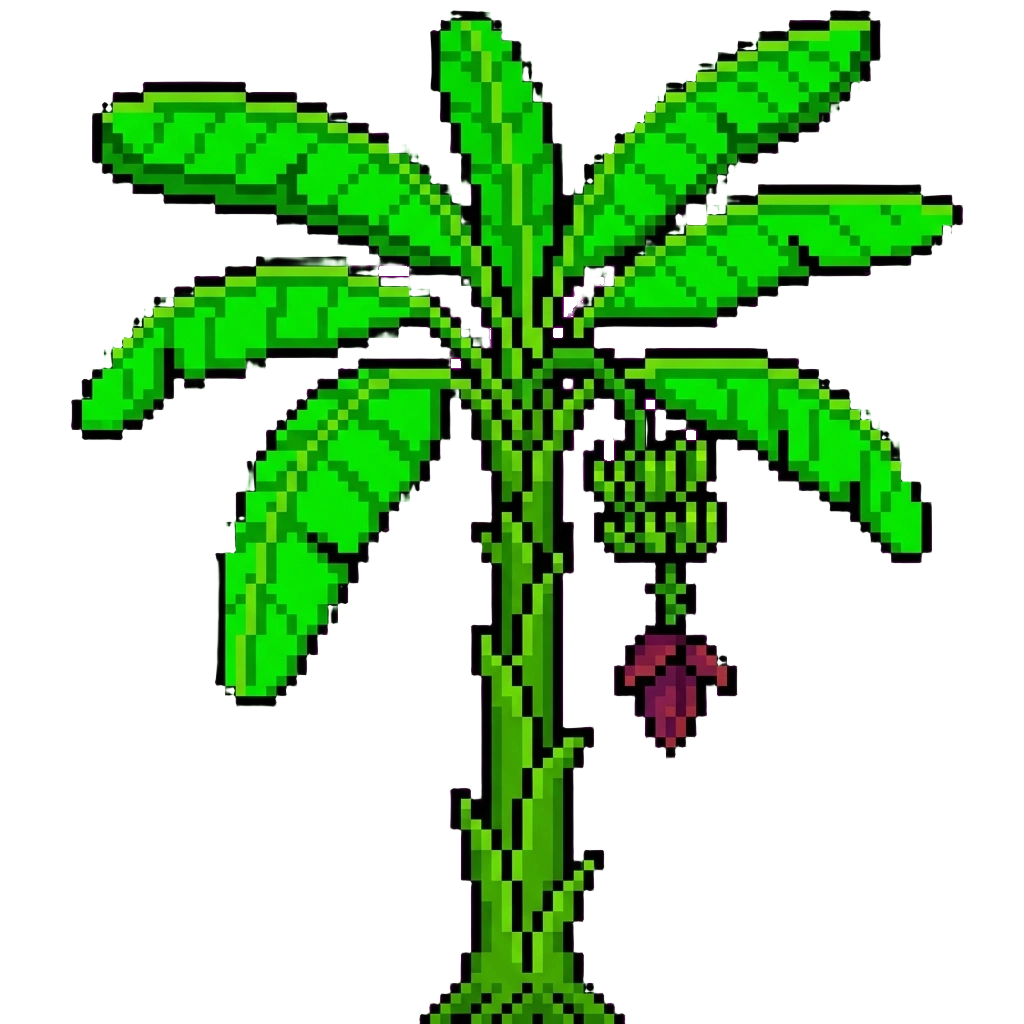
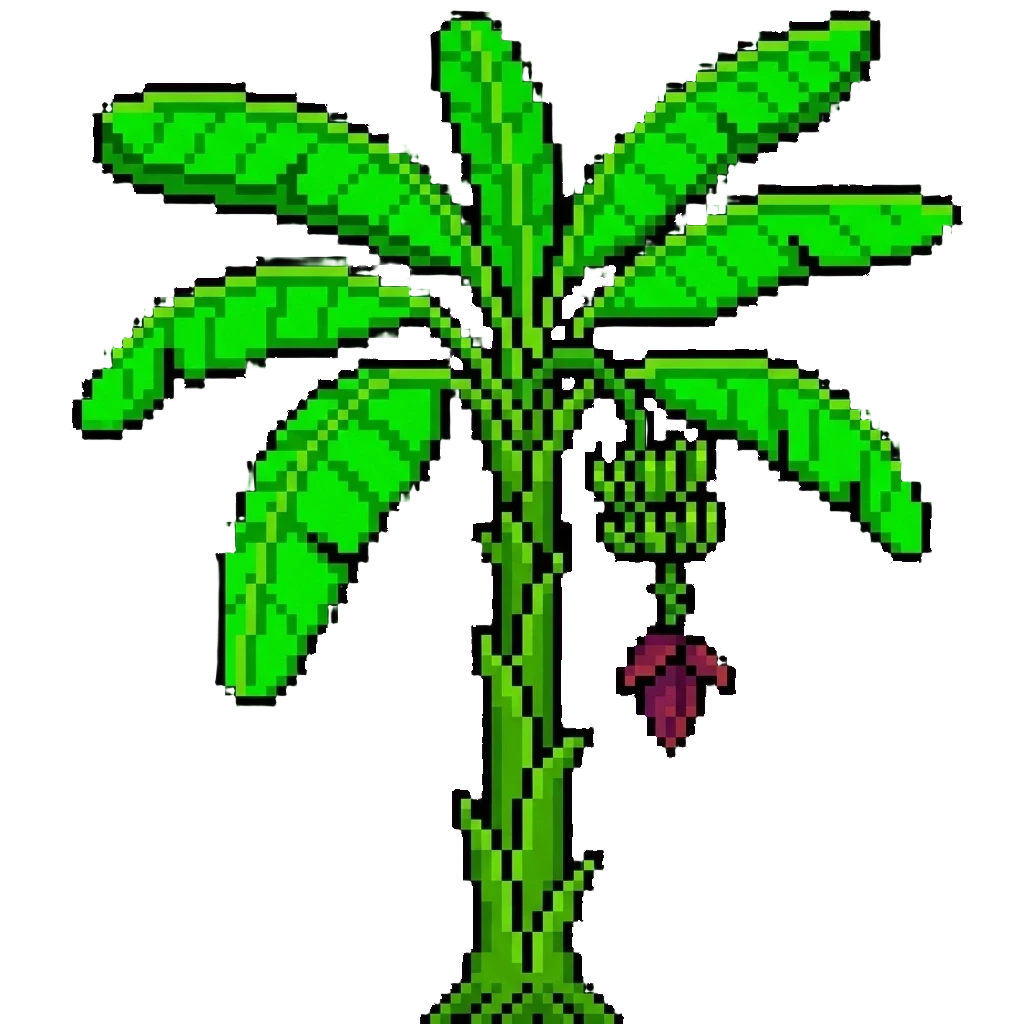
fix(assets): remove purple/magenta fringe from vegetation sprites
HSV-based detection (hue 250-340, sat>0.25) replaces broken RGB threshold
script that caught zero fringe pixels. Two-pass cleanup with edge-aware
handling for near-opaque pixels, white fringe pass, and 8-iteration alpha
bleed. All 13 vegetation WebPs reprocessed - also smaller on disk (~30%).

Changed region(s): [[0.5938, 0.625, 0.625, 0.6562], [0.5625, 0.4375, 0.5938, 0.4688], [0.5312, 0.2812, 0.5625, 0.3125]]

diff --git a/scripts/fix-vegetation-alpha.py b/scripts/fix-vegetation-alpha.py
@@ -1,0 +1,285 @@
+"""
+fix-vegetation-alpha.py
+
+Fixes alpha fringing artifacts on vegetation billboard textures.
+Three passes:
+  1. Purple/magenta cleanup - HSV-based detection of dark purple edge pixels
+  2. White fringe cleanup - replace bright white semi-transparent pixels
+  3. Alpha bleed - propagate RGB from opaque pixels into transparent neighbors
+
+Usage: uv run scripts/fix-vegetation-alpha.py [--dry-run] [--diagnose]
+"""
+
+import colorsys
+import sys
+from pathlib import Path
+
+import numpy as np
+from PIL import Image
+
+ASSETS_DIR = Path(__file__).resolve().parent.parent / "public" / "assets"
+
+VEGETATION_FILES = [
+    "ArecaPalmCluster.webp",
+    "BambooGrove.webp",
+    "BananaPlant.webp",
+    "CoconutPalm.webp",
+    "DipterocarpGiant.webp",
+    "ElephantEarPlants.webp",
+    "ElephantGrass.webp",
+    "FanPalmCluster.webp",
+    "Fern.webp",
+    "Mangrove.webp",
+    "RicePaddyPlants.webp",
+    "RubberTree.webp",
+    "TwisterBanyan.webp",
+]
+
+# 8-connected neighbor offsets
+OFFSETS = [(-1, -1), (0, -1), (1, -1), (-1, 0), (1, 0), (-1, 1), (0, 1), (1, 1)]
+
+
+def rgb_to_hsv_degrees(r: int, g: int, b: int) -> tuple[float, float, float]:
+    """Convert RGB (0-255) to HSV with hue in degrees (0-360)."""
+    h, s, v = colorsys.rgb_to_hsv(r / 255.0, g / 255.0, b / 255.0)
+    return h * 360.0, s, v
+
+
+def is_purple_hsv(r: int, g: int, b: int, sat_threshold: float = 0.25) -> bool:
+    """Detect purple/magenta/pink via HSV hue range 250-340 deg."""
+    if r == 0 and g == 0 and b == 0:
+        return False
+    hue, sat, _ = rgb_to_hsv_degrees(r, g, b)
+    return 250.0 <= hue <= 340.0 and sat > sat_threshold
+
+
+def get_neighbor_avg(
+    pixels: np.ndarray, x: int, y: int, w: int, h: int, skip_fn
+) -> tuple[int, int, int, int]:
+    """Average RGB of 8-connected neighbors that pass the filter (skip_fn returns False)."""
+    sum_r, sum_g, sum_b, count = 0, 0, 0, 0
+    for dx, dy in OFFSETS:
+        nx, ny = x + dx, y + dy
+        if nx < 0 or nx >= w or ny < 0 or ny >= h:
+            continue
+        nr, ng, nb, na = pixels[ny, nx]
+        if na < 128:
+            continue
+        if skip_fn(int(nr), int(ng), int(nb)):
+            continue
+        sum_r += int(nr)
+        sum_g += int(ng)
+        sum_b += int(nb)
+        count += 1
+    if count > 0:
+        return round(sum_r / count), round(sum_g / count), round(sum_b / count), count
+    return 0, 0, 0, 0
+
+
+def is_edge_pixel(pixels: np.ndarray, x: int, y: int, w: int, h: int) -> bool:
+    """Check if pixel is adjacent to a transparent pixel (alpha < 16)."""
+    for dx, dy in OFFSETS:
+        nx, ny = x + dx, y + dy
+        if nx < 0 or nx >= w or ny < 0 or ny >= h:
+            continue
+        if pixels[ny, nx, 3] < 16:
+            return True
+    return False
+
+
+def clean_purple(pixels: np.ndarray, w: int, h: int) -> int:
+    """Pass 1: Replace purple/magenta edge pixels with neighbor colors using HSV detection.
+
+    Semi-transparent pixels (alpha < 200): clean any purple (sat > 0.25)
+    Near-opaque pixels (alpha >= 200): only clean if at edge AND strongly purple (sat > 0.40)
+    """
+    cleaned = 0
+    # Work on a copy so neighbor reads aren't affected by writes this pass
+    out = pixels.copy()
+
+    for y in range(h):
+        for x in range(w):
+            r, g, b, a = pixels[y, x]
+            if a == 0:
+                continue
+            ri, gi, bi = int(r), int(g), int(b)
+
+            if a < 200:
+                # Semi-transparent: use standard threshold
+                if not is_purple_hsv(ri, gi, bi, sat_threshold=0.25):
+                    continue
+            else:
+                # Near-opaque: require stronger purple AND edge adjacency
+                if not is_purple_hsv(ri, gi, bi, sat_threshold=0.40):
+                    continue
+                if not is_edge_pixel(pixels, x, y, w, h):
+                    continue
+
+            avg_r, avg_g, avg_b, count = get_neighbor_avg(
+                pixels, x, y, w, h, is_purple_hsv
+            )
+            if count > 0:
+                out[y, x, 0] = avg_r
+                out[y, x, 1] = avg_g
+                out[y, x, 2] = avg_b
+                # Keep alpha unchanged
+            else:
+                # No good neighbors - zero out alpha
+                out[y, x, 3] = 0
+            cleaned += 1
+
+    pixels[:] = out
+    return cleaned
+
+
+def clean_white_fringe(pixels: np.ndarray, w: int, h: int) -> int:
+    """Pass 2: Replace bright white semi-transparent fringe pixels."""
+    cleaned = 0
+
+    def is_white(r: int, g: int, b: int) -> bool:
+        return r > 200 and g > 200 and b > 200
+
+    for y in range(h):
+        for x in range(w):
+            r, g, b, a = pixels[y, x]
+            if not (r > 180 and g > 180 and b > 180 and 0 < a < 200):
+                continue
+
+            avg_r, avg_g, avg_b, count = get_neighbor_avg(
+                pixels, x, y, w, h, is_white
+            )
+            if count > 0:
+                pixels[y, x, 0] = avg_r
+                pixels[y, x, 1] = avg_g
+                pixels[y, x, 2] = avg_b
+                cleaned += 1
+
+    return cleaned
+
+
+def alpha_bleed(pixels: np.ndarray, w: int, h: int, iterations: int = 8) -> int:
+    """Pass 3: Propagate RGB from opaque pixels into fully transparent neighbors."""
+    total_bled = 0
+    has_color = pixels[:, :, 3] > 0  # bool array
+
+    for _ in range(iterations):
+        # Find transparent pixels that have at least one colored neighbor
+        updates = []
+        for y in range(h):
+            for x in range(w):
+                if has_color[y, x]:
+                    continue
+
+                sum_r, sum_g, sum_b, count = 0, 0, 0, 0
+                for dx, dy in OFFSETS:
+                    nx, ny = x + dx, y + dy
+                    if nx < 0 or nx >= w or ny < 0 or ny >= h:
+                        continue
+                    if has_color[ny, nx]:
+                        sum_r += int(pixels[ny, nx, 0])
+                        sum_g += int(pixels[ny, nx, 1])
+                        sum_b += int(pixels[ny, nx, 2])
+                        count += 1
+
+                if count > 0:
+                    updates.append(
+                        (y, x, round(sum_r / count), round(sum_g / count), round(sum_b / count))
+                    )
+
+        if not updates:
+            break
+
+        for row, col, r, g, b in updates:
+            pixels[row, col, 0] = r
+            pixels[row, col, 1] = g
+            pixels[row, col, 2] = b
+            # Alpha stays 0
+            has_color[row, col] = True
+
+        total_bled += len(updates)
+
+    return total_bled
+
+
+def diagnose(pixels: np.ndarray, w: int, h: int) -> dict:
+    """Count purple pixels that would actually be cleaned (matching clean_purple logic)."""
+    counts = {"semi_trans": 0, "opaque_edge": 0, "opaque_interior_skip": 0, "total": 0}
+    for y in range(h):
+        for x in range(w):
+            r, g, b, a = pixels[y, x]
+            if a == 0:
+                continue
+            ri, gi, bi = int(r), int(g), int(b)
+            if a < 200:
+                if is_purple_hsv(ri, gi, bi, sat_threshold=0.25):
+                    counts["semi_trans"] += 1
+                    counts["total"] += 1
+            else:
+                if is_purple_hsv(ri, gi, bi, sat_threshold=0.40):
+                    if is_edge_pixel(pixels, x, y, w, h):
+                        counts["opaque_edge"] += 1
+                        counts["total"] += 1
+                    else:
+                        counts["opaque_interior_skip"] += 1
+    return counts
+
+
+def process_file(filename: str, dry_run: bool, do_diagnose: bool) -> None:
+    filepath = ASSETS_DIR / filename
+    if not filepath.exists():
+        print(f"  SKIP {filename} (not found)")
+        return
+
+    img = Image.open(filepath).convert("RGBA")
+    w, h = img.size
+    pixels = np.array(img, dtype=np.uint8)
+
+    if do_diagnose:
+        counts = diagnose(pixels, w, h)
+        print(
+            f"  {filename}: {w}x{h} | will_clean={counts['total']} "
+            f"(semi_trans={counts['semi_trans']} opaque_edge={counts['opaque_edge']} "
+            f"opaque_skip={counts['opaque_interior_skip']})"
+        )
+        return
+
+    # Pass 1: Purple/magenta cleanup (HSV-based)
+    purple_cleaned = clean_purple(pixels, w, h)
+
+    # Pass 2: White fringe cleanup
+    white_cleaned = clean_white_fringe(pixels, w, h)
+
+    # Pass 3: Alpha bleed
+    bled = alpha_bleed(pixels, w, h, iterations=8)
+
+    print(
+        f"  {filename}: {w}x{h} | purple={purple_cleaned} white={white_cleaned} bled={bled}"
+    )
+
+    if not dry_run:
+        out_img = Image.fromarray(pixels, "RGBA")
+        out_img.save(filepath, "WEBP", quality=90)
+
+
+def main() -> None:
+    dry_run = "--dry-run" in sys.argv
+    do_diagnose = "--diagnose" in sys.argv
+    mode = "DIAGNOSE" if do_diagnose else ("DRY RUN" if dry_run else "PROCESSING")
+    print(f"Vegetation alpha fix ({mode})")
+    print(f"Assets dir: {ASSETS_DIR}")
+    print()
+
+    for f in VEGETATION_FILES:
+        process_file(f, dry_run, do_diagnose)
+
+    print()
+    if do_diagnose:
+        print("Diagnosis complete.")
+    elif dry_run:
+        print("Dry run complete. No files modified.")
+    else:
+        print("Done. All files updated.")
+
+
+if __name__ == "__main__":
+    main()
